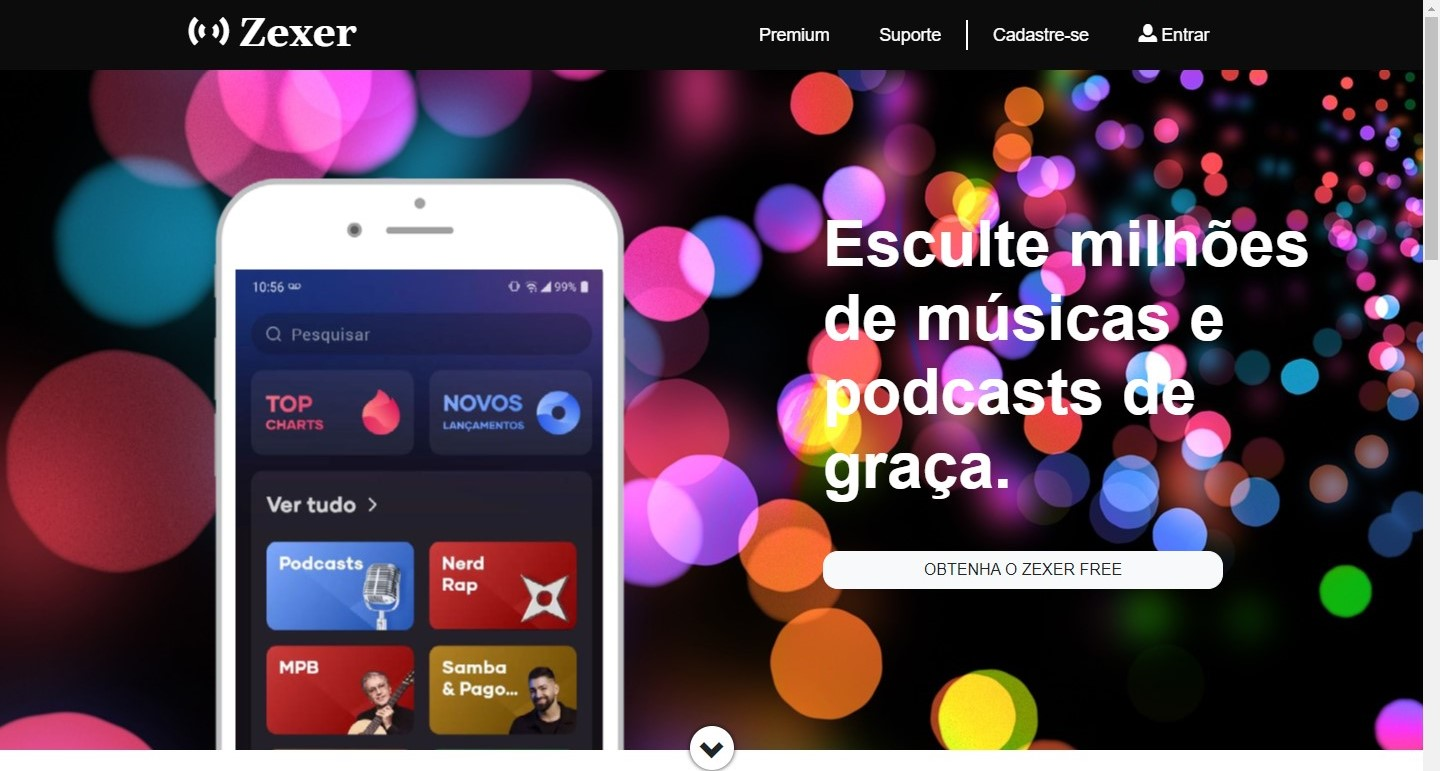
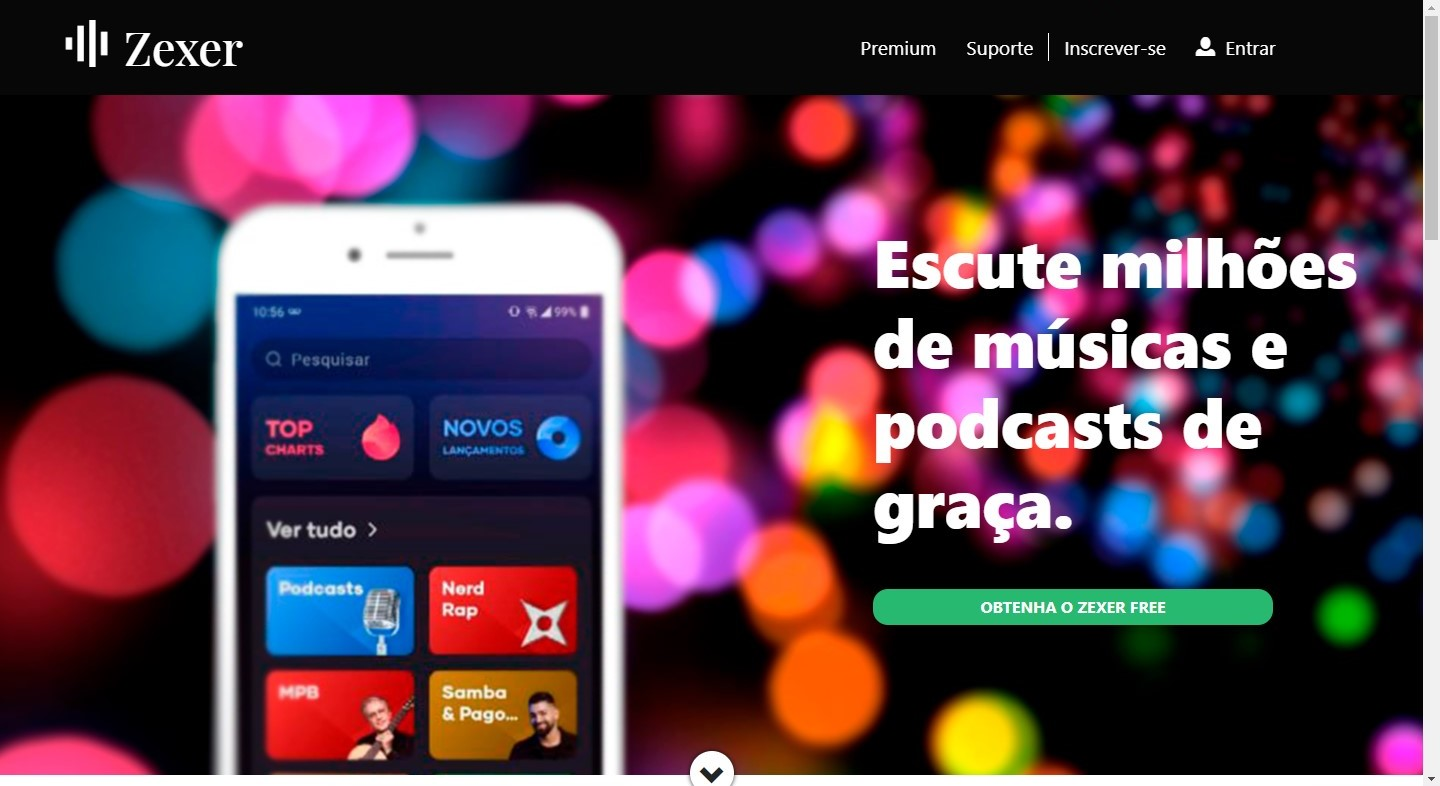
correcoes de cor e imagens no readme

diff --git a/index.html b/index.html
@@ -209,7 +209,7 @@
                     <a href="https://www.linkedin.com/in/ronaldo-vieira-lira/" target="_blank">
                         <img src="assets/icons/linkedin.png" alt="Linkedin">
                     </a>
-                    <a href="">
+                    <a href="https://www.instagram.com/ronald_vieira18/">
                         <img src="assets/icons/instagram.png" alt="Instagram">
                     </a>
 

diff --git a/assets/css/login.css b/assets/css/login.css
@@ -10,7 +10,7 @@ header{
     display: flex;
     align-items: center;
     justify-content: center;
-    background-color: black;
+    background: rgba(0, 0, 0, 0.973);
     color: white;
     height: 100px;
     cursor: pointer;

diff --git a/assets/css/signup.css b/assets/css/signup.css
@@ -21,7 +21,7 @@ header{
     justify-content: center;
     align-items: center;
     height: 100px;
-    background-color: black;
+    background: rgba(0, 0, 0, 0.973);
     color: white;
     cursor: pointer;
 }

diff --git a/assets/css/premium.css b/assets/css/premium.css
@@ -17,7 +17,7 @@ p{
 }
 /*Header*/
 header{
-    background: rgba(0, 0, 0, 0.904);
+    background: rgba(0, 0, 0, 0.973);
 }
 #titulo-Header{
     margin-left: 50px;

diff --git a/assets/css/style.css b/assets/css/style.css
@@ -13,7 +13,7 @@
 }
 /*Header*/
 header{
-    background: rgba(0, 0, 0, 0.904);
+    background: rgba(0, 0, 0, 0.973);
 }
 #titulo-Header{
     margin: 0 0 0 50px;

diff --git a/README.md b/README.md
@@ -6,6 +6,5 @@ Zexer novo serviço de streaming, totalmente pensando e desenvolvido para os ama
 
 ![Tela principal](/readme-img/zexer.jpg)
 
-![Motivos](/readme-img/zexer-motivo.jpg)
+![Motivos](/readme-img/zexer-escolha.jpg)
 
-> Em fase de **DESENVOLVIMENTO**.
